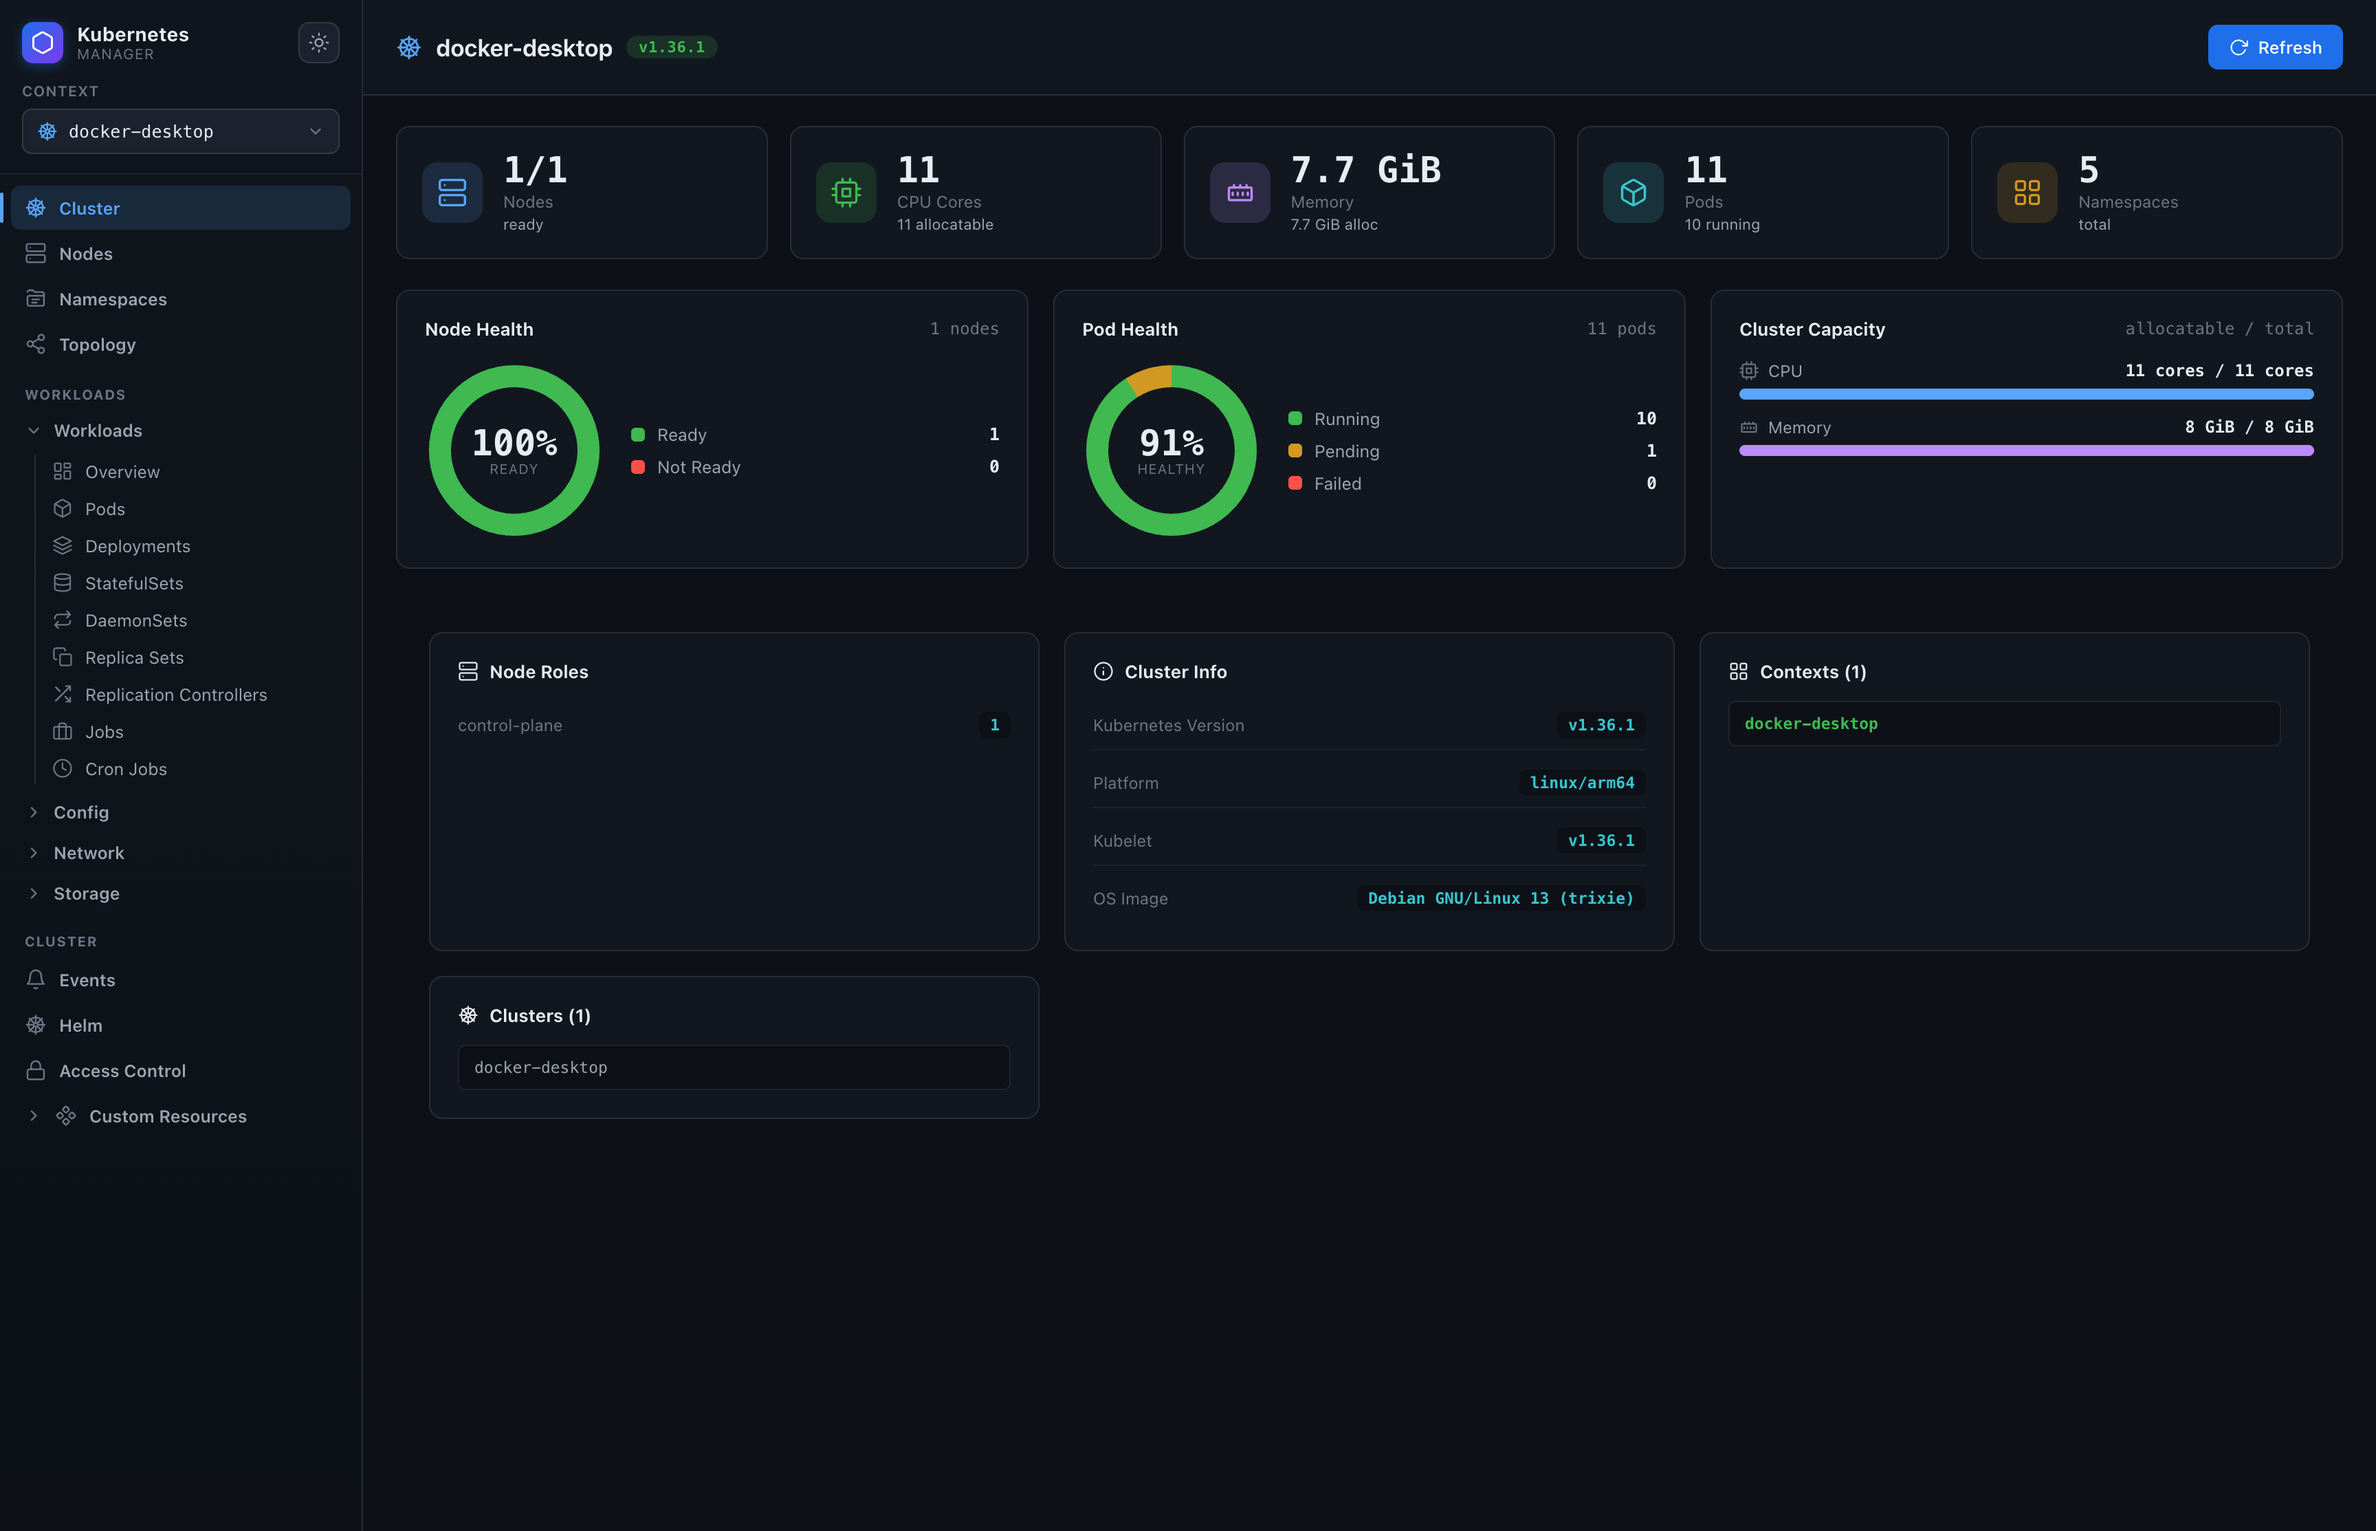
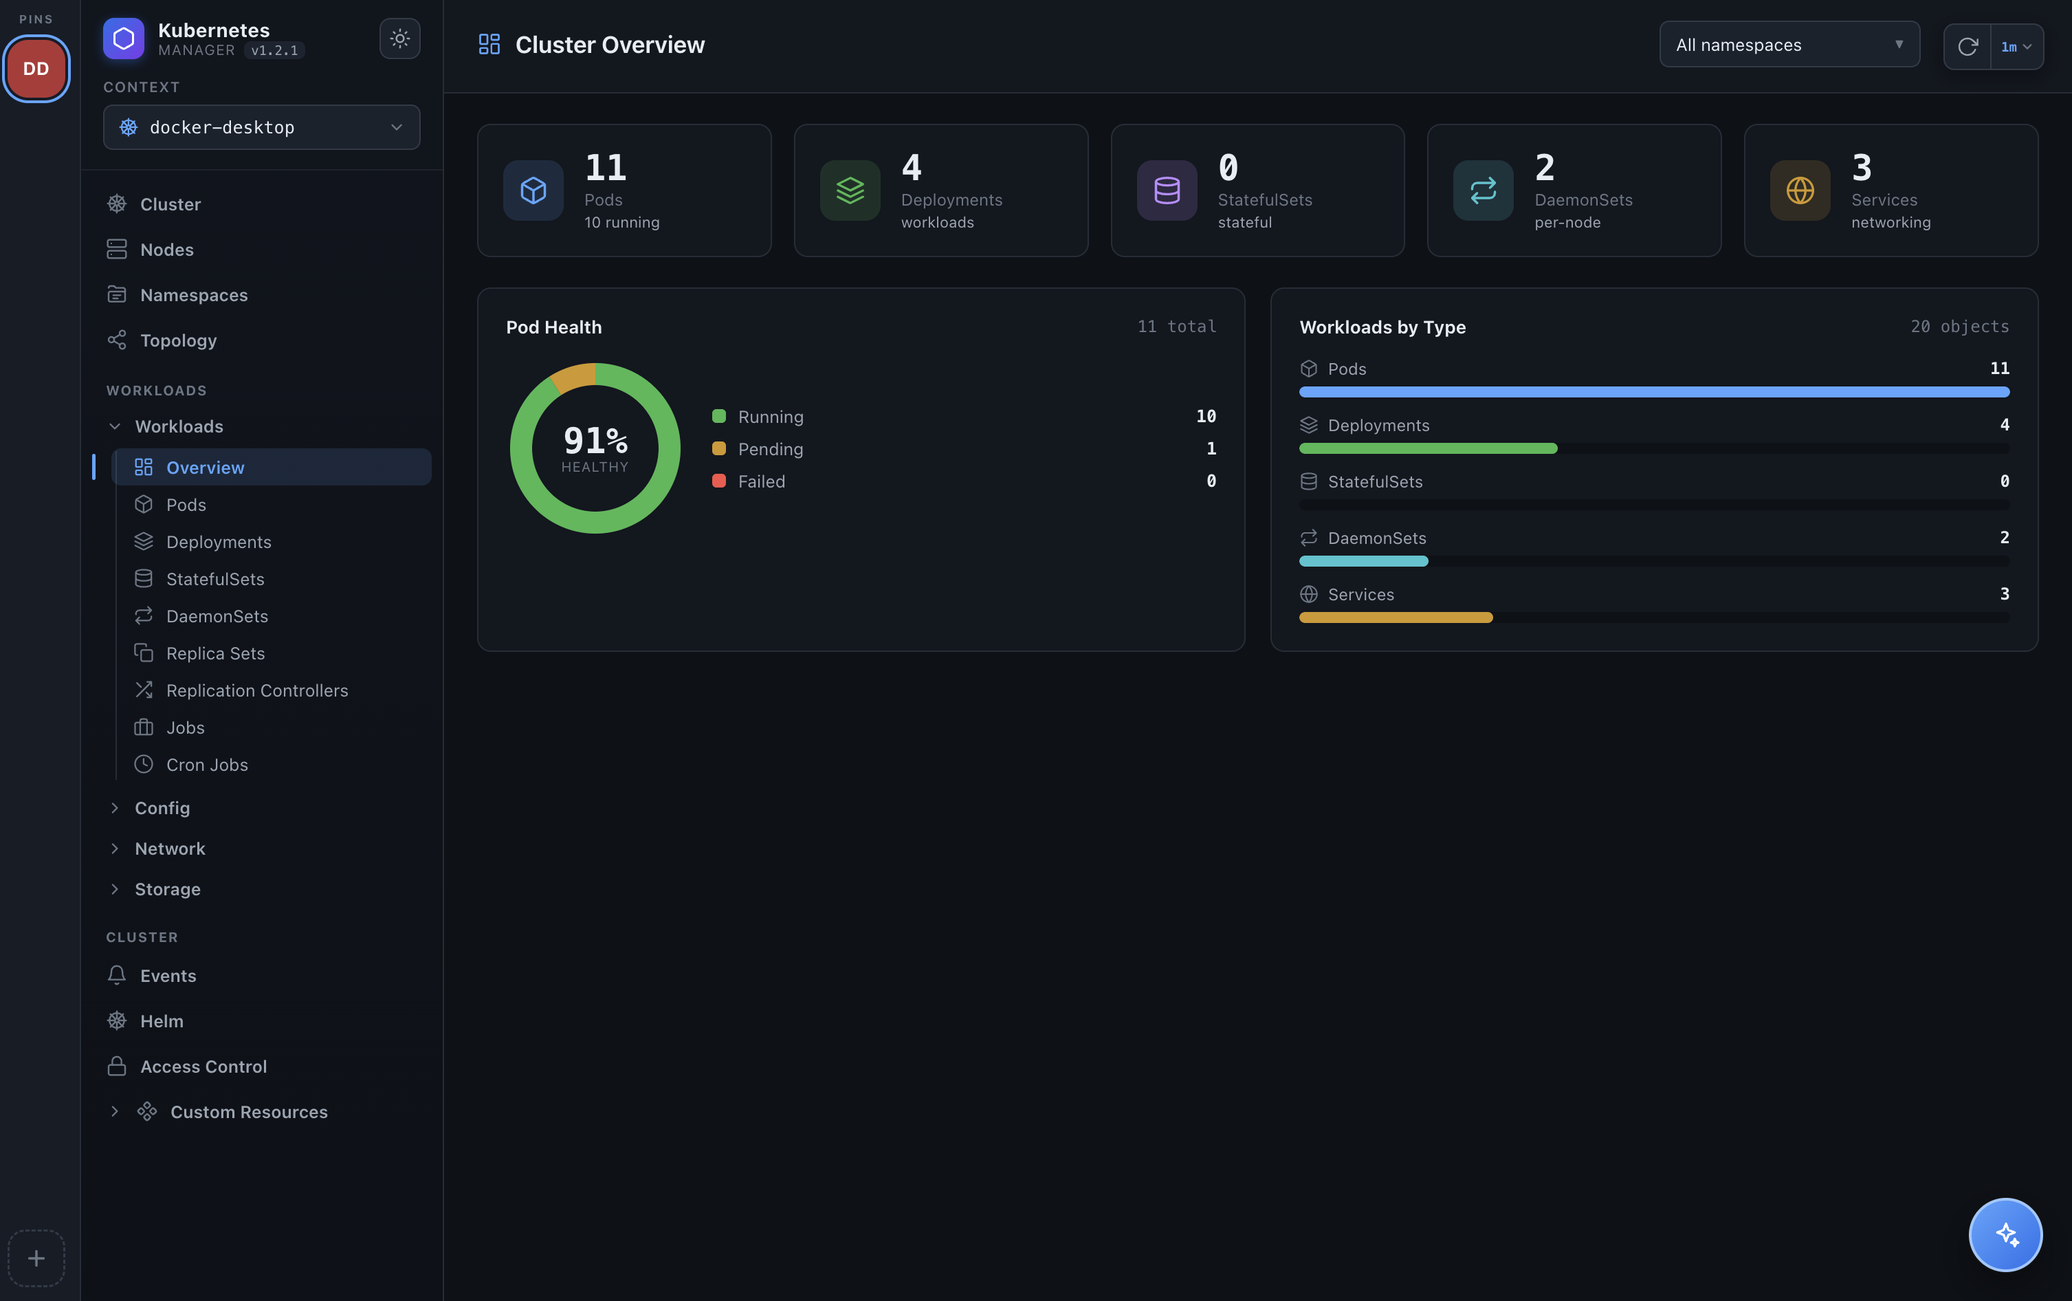
version bump

diff --git a/website/index.html b/website/index.html
@@ -302,7 +302,7 @@
 <!-- HERO -->
 <section class="hero" id="top">
   <div class="wrap">
-    <span class="badge"><span class="dot"></span> Version 1.1.0 · macOS &amp; Docker</span>
+    <span class="badge"><span class="dot"></span> Version 1.2.1 · macOS &amp; Docker</span>
     <h1>Operate your cluster with a <span class="grad">beautiful</span> Kubernetes UI</h1>
     <p class="sub">A modern, Lens-style dashboard for browsing and operating any Kubernetes cluster using your local <code>kubeconfig</code> — live metrics, pod logs, interactive shells, topology, Helm, and a built-in AI debugging assistant.</p>
     <div class="cta-row">
@@ -448,7 +448,7 @@
           <div class="ico"><svg viewBox="0 0 24 24"><path d="M16.365 1.43c0 1.14-.42 2.2-1.12 3.02-.84.99-2.22 1.75-3.36 1.66-.14-1.12.43-2.3 1.08-3.04C13.78 2.05 15.3 1.4 16.365 1.43zM20.9 17.02c-.55 1.27-.82 1.84-1.53 2.96-1 1.56-2.4 3.5-4.15 3.51-1.55.02-1.95-1.02-4.05-1.01-2.1.01-2.54 1.03-4.1 1.02-1.74-.02-3.07-1.77-4.07-3.33C1.16 15.66.8 10.55 3.05 7.83c1.02-1.24 2.5-1.97 4.06-1.97 1.6 0 2.6 1.02 3.92 1.02 1.28 0 2.06-1.02 3.91-1.02 1.38 0 2.85.75 3.9 2.05-3.43 1.88-2.87 6.78.06 8.08z"/></svg></div>
           <div>
             <h3>macOS App</h3>
-            <div class="meta">Apple Silicon (arm64) · .dmg · v1.1.0</div>
+            <div class="meta">Apple Silicon (arm64) · .dmg · v1.2.1</div>
           </div>
         </div>
         <p>A native <code>Kubernetes Manager.app</code> that starts the server and opens the UI in its own window. It reconstructs your shell <code>PATH</code> so <code>kubectl</code> is found automatically.</p>
